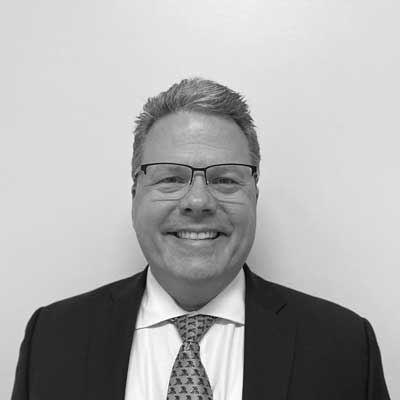
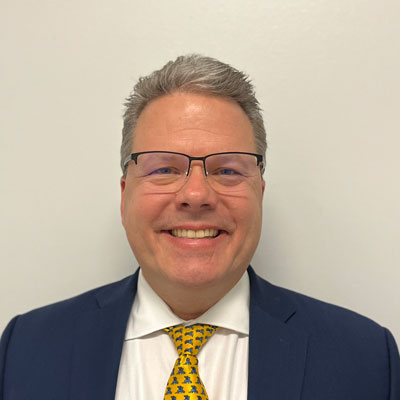
Added image to 5 miles, and updated Robs image on About. Also udpated buttons on the practice pages

diff --git a/about.html b/about.html
@@ -97,11 +97,11 @@
                         <h1>Our Founder</h1>
                         
                         <p>The roots of our firm began over 28 years ago when our founder, Robert Hockett, began his career in Banking, where he collaborated exclusively with Licensed Professionals for a Fortune 50 Bank. A few years later, after learning what makes a professional practice financially successful (from the lender side), he received his Certified Financial Planner (CFP™) designation, and founded Cambridge Wealth Counsel, a fee-only wealth management firm. Cambridge successfully combined family wealth management with business consulting/coaching for seasoned licensed professionals and successful business owners. </p>
-                        <p>In 2017, Cambridge merged with Modera Wealth Management ($15 Billion UA currently), where Robert was a Principal and member of the Board of Directors. In 2021, Robert, with his wife Maria, took a two-year sabbatical to serve a church service mission in Milan, Italy during Covid. Upon returning from service in Italy, Robert launched ThePracticeConsultant.cßom to exclusively provide Practice Consulting and Loan Advisory Services for Licensed Professionals. </p>
+                        <p>In 2017, Cambridge merged with Modera Wealth Management ($15 Billion UA currently), where Robert was a Principal and member of the Board of Directors. In 2021, Robert, with his wife Maria, took a two-year sabbatical to serve a church service mission in Milan, Italy during Covid. Upon returning from service in Italy, Robert launched ThePracticeConsultant.com to exclusively provide Practice Consulting and Loan Advisory Services for Licensed Professionals. </p>
                         <p>He is an affiliate member of the American Institute of Certified Public Accountants (AICPA) and the Financial Planning Association.</p>
                     </div>
                     <div class="col-12 col-md-4 text-center">
-                        <img src="images/rob.jpg" class="img-fluid rad50" alt="image of Robert Hocket the founder"/>
+                        <img src="images/rob.jpg" class="img-fluid shadow mt-md-5" alt="image of Robert Hocket the founder"/>
                         <h4 class="pt-4">Robert S. Hockett</h4>
                         <h5 class="pt-1">President</h5>
                         <div class="row pt-5 text-center">
@@ -123,7 +123,7 @@
 			</div>
         </div>
 
-        <div class="container-fluid py-5" id="testimonials">
+        <div class="container-fluid plLtBurnt py-5" id="testimonials">
             <div class="container">
                 <div class="row">
                     <div class="col-12">

diff --git a/fiveMilestones.html b/fiveMilestones.html
@@ -91,9 +91,12 @@
 		<div class="container-fluid py-3 plGrey" id="5msHeader">
             <div class="container">
                 <div class="row">
-                    <div class="col-12">
+                    <div class="col-12 col-md-6 d-flex flex-column justify-content-center">
                         <h1>The 5 Milestones of Professional Practice&#8482;</h1>
-                        <h5>Our clients progress through the 5 Milestones™ more quickly with fewer mistakes, lower costs, and better work-life balance. Leverage our knowledge to achieve your goals!</h5>   
+                        <h4>Our clients progress through the 5 Milestones™ more quickly with fewer mistakes, lower costs, and better work-life balance. Leverage our knowledge to achieve your goals!</h4>   
+                    </div>
+                    <div class="col-12 col-md-6">
+                        <img src="images/fiveMiles-path.jpg" class="img-fluid shadow" alt="Train across mountain tops">   
                     </div>
 				</div>
 			</div>
@@ -102,7 +105,7 @@
             <div class="container">
                 <div class="row">
                     <div class="col-12">
-                        <img src="images/fiveMiles-path.jpg" class="float-end shadow fmTrail" alt="Train across mountain tops">
+                        
                         <p class="fs-3">Over the last 25+ years, we have worked with many clients to reach their practice goals. Along the way, some patterns have emerged. Most professionals progress through 5 practice milestones during their careers. We developed a consulting framework using the 5 Milestones™ to help professionals navigate the stages that they will encounter in practice.</p>   
                     </div>
 				</div>

diff --git a/optometry.html b/optometry.html
@@ -88,7 +88,7 @@
                         </li>-->
                         <li class="nav-item">
                             <a class="nav-link" aria-disabled="true" href="form.html">
-                                <button class="btn plGreen-btn getStarted" type="submit">Apply Now</button>
+                                <button class="btn plGreen-btn getStarted" type="submit">Get Started</button>
                             </a>
                         </li>
                     </ul>
@@ -141,7 +141,7 @@
                     <div class="col-12 col-md-6 text-center d-flex flex-column justify-content-center">
                         <h2>Specialties Served</h2>
                         <p class="text-white fw-bold fs-3">We have provided professional business coaching and consulting advice to:</p> 
-                        <h3>Optometry</h3>
+                        <h3>Optometrist</h3>
                         <p class="text-white fw-bold fs-3 pt-3">So, whether you need our <a href="consulting.html">Consulting Services</a> or our <a href="loan-advisory.html">complimentary</a><span class="plBlue-text"> - </span><a href="loan-advisory.html">Loan Advisory Services</a>... let us help you take some of the stress out of your life!</p>
                         <a class="nav-link py-3" aria-disabled="true" href="form.html">
                             <button class="btn plGreen-btn btn-lg w-50 py-1" type="submit"><b>Get Started</b></button>

diff --git a/dental.html b/dental.html
@@ -89,7 +89,7 @@
                         </li>-->
                         <li class="nav-item">
                             <a class="nav-link" aria-disabled="true" href="form.html">
-                                <button class="btn plGreen-btn getStarted" type="submit">Apply Now</button>
+                                <button class="btn plGreen-btn getStarted" type="submit">Get Started</button>
                             </a>
                         </li>
                     </ul>

diff --git a/medical.html b/medical.html
@@ -88,7 +88,7 @@
                         </li>-->
                         <li class="nav-item">
                             <a class="nav-link" aria-disabled="true" href="form.html">
-                                <button class="btn plGreen-btn getStarted" type="submit">Apply Now</button>
+                                <button class="btn plGreen-btn getStarted" type="submit">Get Started</button>
                             </a>
                         </li>
                     </ul>

diff --git a/veterinary.html b/veterinary.html
@@ -90,7 +90,7 @@
                         </li>-->
                         <li class="nav-item">
                             <a class="nav-link" aria-disabled="true" href="form.html">
-                                <button class="btn plGreen-btn getStarted" type="submit">Apply Now</button>
+                                <button class="btn plGreen-btn getStarted" type="submit">Get Started</button>
                             </a>
                         </li>
                     </ul>
